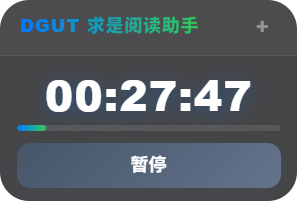
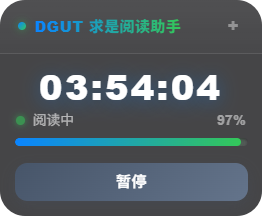
v3.3.0 UI 重设计、CSS 重写、日志彩色分类、iframe 握手协议
- 版本号 3.2.1 → 3.3.0，命名空间改为 GitHub 仓库地址
- 面板 UI 重设计：新增品牌圆点、meter-row 合并状态点与百分比到一行、
  苹果风格视觉语言、大圆角渐变底色
- 注入样式处加注释说明 !important 用途（抵御宿主 CSS reset）
- 日志系统升级：彩色分类（ok/nav/warn）伪元素圆点，
  结构改为独立时间+消息标签、去掉方括号
- 实现 iframe 握手：READY_MSG 心跳 ping（最长 20 秒）、宿主回复定向同步、
  origin+scope 消息过滤、超时降级
- 更新 README.md 和面板截图

diff --git a/DGUT求是读书-自动阅读助手.js b/DGUT求是读书-自动阅读助手.js
@@ -1,7 +1,7 @@
 // ==UserScript==
-// @name         DGUT求是读书-全自动阅读助手
-// @namespace    http://tampermonkey.net/
-// @version      3.2.1
+// @name         DGUT求是读书-自动阅读助手
+// @namespace    https://github.com/vanilla1108/DGUT-Reading-Helper
+// @version      3.3.0
 // @license MIT
 // @description  DGUT莞工求是读书计划自动阅读助手 — 获取优学院真实阅读时长、自动翻页/章节
 // @author       vanilla、DeepSeek
@@ -20,9 +20,12 @@
     const PAGE_WIN = typeof unsafeWindow !== 'undefined' ? unsafeWindow : window;
 
     const HOST_RE = /^https:\/\/ua\.dgut\.edu\.cn\/learnCourse\/learnCourse\.html\?.*/i;
+    const HOST_ORIGIN = 'https://ua.dgut.edu.cn';
     const KEY = 'dgut_single_file_helper_config';
     const RECORDS_KEY = 'dgut_reading_records';
     const MSG = 'DGUT_SINGLE_FILE_READER_SYNC';
+    const READY_MSG = 'DGUT_SINGLE_FILE_READER_READY';
+    const READER_SCOPE = 'DGUT_LEARNCOURSE_READER';
     const SAVE_INTERVAL = 30;
     const D = { posX:20, posY:120, readerSec:30, readerAutoStart:true };
     const MIN_BOOK_SEC = 4 * 3600 + 10;
@@ -215,7 +218,9 @@
         }
 
         document.head.appendChild(Object.assign(document.createElement('style'), {
-            textContent: '#dgut-single-helper-panel{background:rgba(28,28,30,.82);backdrop-filter:blur(28px);-webkit-backdrop-filter:blur(28px);color:#e5e5e7;padding:0;border-radius:16px;position:fixed;z-index:100000;font-family:-apple-system,BlinkMacSystemFont,"SF Pro Text","Helvetica Neue",Arial,sans-serif;min-width:230px;box-shadow:0 12px 40px rgba(0,0,0,.5),0 0 0 1px rgba(255,255,255,.08);user-select:none;overflow:hidden}#dgut-drag-handle{cursor:move;padding:9px 14px;background:rgba(255,255,255,.04);border-bottom:1px solid rgba(255,255,255,.07);display:flex;align-items:center;justify-content:space-between;gap:8px}#dgut-drag-handle h4{margin:0;background:linear-gradient(90deg,#007aff,#34c759);-webkit-background-clip:text;-webkit-text-fill-color:transparent;font-size:12px;font-weight:800;letter-spacing:.5px;text-transform:uppercase}#dgut-collapse-btn{cursor:pointer;font-size:14px;font-weight:700;color:rgba(255,255,255,.4);width:20px;height:20px;display:flex;align-items:center;justify-content:center;border-radius:5px;transition:background .15s,color .15s}#dgut-collapse-btn:hover{background:rgba(255,255,255,.1);color:#fff}#dgut-single-helper-panel.collapsed{min-width:200px}#dgut-single-helper-panel.collapsed .dgut-panel-body>:not(#timer-display):not(#progress-bar-wrap):not(#btn-pause-wrap){display:none}#dgut-single-helper-panel.collapsed .dgut-panel-body{padding:12px}#dgut-single-helper-panel.collapsed #timer-display{font-size:28px;margin:0 0 6px}#dgut-single-helper-panel.collapsed #btn-pause-wrap{margin-bottom:0;margin-top:8px}#dgut-single-helper-panel.collapsed .dgut-btn-primary{height:30px;font-size:12px}.dgut-panel-body{padding:14px}#timer-display{font-weight:800;color:#fff;font-size:34px;font-variant-numeric:tabular-nums;letter-spacing:1px;line-height:1;text-align:center;margin:2px 0 8px;text-shadow:0 2px 12px rgba(0,122,255,.3)}#progress-bar-wrap{height:4px;background:rgba(255,255,255,.1);border-radius:2px;margin:6px 0;overflow:hidden}#progress-bar-fill{height:100%;background:linear-gradient(90deg,#007aff,#34c759);border-radius:2px;transition:width .6s cubic-bezier(.34,1.56,.64,1);box-shadow:0 0 8px rgba(0,122,255,.3)}#progress-text{font-size:10px;font-weight:600;color:rgba(255,255,255,.4);text-align:center;margin-bottom:8px}#book-name-display{font-size:11px;color:rgba(255,255,255,.55);text-align:center;white-space:nowrap;overflow:hidden;text-overflow:ellipsis;max-width:100%;margin-bottom:10px;padding:3px 8px;background:rgba(255,255,255,.03);border-radius:6px}#btn-pause-wrap{margin-bottom:12px}.dgut-btn{border:none;border-radius:9px;cursor:pointer;font-size:13px;font-weight:600;transition:all .15s cubic-bezier(.4,0,.2,1);display:flex;align-items:center;justify-content:center;outline:0}.dgut-btn:hover{filter:brightness(1.08)}.dgut-btn:active{transform:scale(.97)}.dgut-btn-primary{color:#fff;width:100%;height:36px;background:linear-gradient(135deg,#43e97b,#38f9d7);box-shadow:0 4px 12px rgba(67,233,123,.25)}.dgut-btn-ghost{color:rgba(255,255,255,.85);background:rgba(255,255,255,.07);border:1px solid rgba(255,255,255,.12);height:24px;padding:0 10px;font-size:11px;font-weight:500}.dgut-btn-ghost:hover{background:rgba(255,255,255,.13);border-color:rgba(255,255,255,.2)}#auto-row,#server-row{display:flex;align-items:center;gap:8px;margin-bottom:8px;font-size:11px;color:rgba(255,255,255,.5)}#server-row #server-time-display{flex:1;min-width:0}#auto-row .row-label{color:rgba(255,255,255,.4);font-size:11px;flex-shrink:0}#auto-row .row-unit{font-size:11px;color:rgba(255,255,255,.4);margin-right:auto}#reader-sec{width:42px;background:rgba(0,0,0,.25);border:1px solid rgba(255,255,255,.1);border-radius:5px;color:#fff;text-align:center;padding:3px;font-size:12px;outline:0;transition:border-color .15s}#reader-sec:focus{border-color:#007aff}#reader-status{display:flex;align-items:center;gap:6px;font-size:10px;color:rgba(255,255,255,.4);margin-bottom:10px}#status-dot{width:7px;height:7px;border-radius:50%;flex-shrink:0;background:#ffcc80}#status-dot.active{background:#34c759;box-shadow:0 0 6px #34c759;animation:dgut-pulse 2s infinite}@keyframes dgut-pulse{0%,100%{opacity:1}50%{opacity:.5}}#dgut-log-header{display:flex;align-items:center;justify-content:space-between;cursor:pointer;margin-bottom:6px;padding-top:8px;border-top:1px solid rgba(255,255,255,.06)}#dgut-log-title{font-size:10px;color:rgba(255,255,255,.35);text-transform:uppercase;letter-spacing:.5px;font-weight:700}#dgut-log-toggle{font-size:10px;color:rgba(255,255,255,.25)}#dgut-log-container{height:90px;overflow-y:auto;background:rgba(0,0,0,.22);border-radius:7px;padding:6px 8px;font-size:10px;font-family:Consolas,monospace;line-height:1.5;scrollbar-width:thin;transition:all .25s ease}#dgut-log-container.collapsed{height:0;padding:0;opacity:0;overflow:hidden}#dgut-log-container::-webkit-scrollbar{width:4px}#dgut-log-container::-webkit-scrollbar-thumb{background:rgba(255,255,255,.1);border-radius:2px}.dgut-log-line{padding:1px 0;color:rgba(255,255,255,.55)}.dgut-log-time{color:rgba(255,255,255,.18);margin-right:6px}'
+            /* !important 在 #dgut-log-container / .dgut-log-line 的 padding 上，
+               用于抵御宿主页面 CSS reset 导致日志圆点压时间戳的 bug — 勿删勿改。 */
+            textContent: '#dgut-single-helper-panel{box-sizing:border-box;background:rgba(28,28,30,.82);backdrop-filter:blur(28px);-webkit-backdrop-filter:blur(28px);color:#e5e5e7;padding:0;border-radius:16px;position:fixed;z-index:100000;font-family:-apple-system,BlinkMacSystemFont,"SF Pro Text","Helvetica Neue",Arial,sans-serif;width:300px;max-width:calc(100vw - 32px);box-shadow:0 12px 40px rgba(0,0,0,.5),0 0 0 1px rgba(255,255,255,.08);user-select:none;overflow:hidden}#dgut-single-helper-panel *{box-sizing:border-box}#dgut-drag-handle{cursor:move;padding:11px 14px;background:linear-gradient(180deg,rgba(255,255,255,.06),rgba(255,255,255,.02));border-bottom:1px solid rgba(255,255,255,.07);display:flex;align-items:center;justify-content:space-between;gap:8px}#dgut-title-wrap{display:flex;align-items:center;gap:7px;min-width:0}#dgut-brand-dot{width:7px;height:7px;border-radius:50%;background:linear-gradient(135deg,#0a84ff,#34c759);box-shadow:0 0 7px rgba(52,199,89,.6);flex-shrink:0}#dgut-drag-handle h4{margin:0;background:linear-gradient(90deg,#0a84ff,#34c759);-webkit-background-clip:text;-webkit-text-fill-color:transparent;font-size:12px;font-weight:800;letter-spacing:.3px;white-space:nowrap}#dgut-collapse-btn{cursor:pointer;font-size:14px;font-weight:700;color:rgba(255,255,255,.4);width:20px;height:20px;display:flex;align-items:center;justify-content:center;border-radius:6px;transition:background .15s,color .15s}#dgut-collapse-btn:hover{background:rgba(255,255,255,.1);color:#fff}#dgut-single-helper-panel.collapsed{width:210px}#dgut-single-helper-panel.collapsed .dgut-panel-body>:not(#timer-display):not(#progress-bar-wrap):not(#btn-pause-wrap):not(#meter-row){display:none}#dgut-single-helper-panel.collapsed .dgut-panel-body{padding:12px}#dgut-single-helper-panel.collapsed #timer-display{font-size:28px;margin:0 0 6px}#dgut-single-helper-panel.collapsed #meter-row{margin-bottom:6px}#dgut-single-helper-panel.collapsed #btn-pause-wrap{margin-bottom:0;margin-top:8px}#dgut-single-helper-panel.collapsed .dgut-btn-primary{height:30px;font-size:12px}.dgut-panel-body{padding:16px}#timer-display{font-weight:800;color:#fff;font-size:36px;font-variant-numeric:tabular-nums;letter-spacing:2px;line-height:1;text-align:center;margin:4px 0 9px;text-shadow:0 2px 16px rgba(10,132,255,.35)}#meter-row{display:flex;align-items:center;justify-content:space-between;gap:8px;margin:0 0 7px;padding:0 1px}#reader-status{display:flex;align-items:center;gap:6px;font-size:11px;color:rgba(255,255,255,.6);min-width:0}#status-text{white-space:nowrap;overflow:hidden;text-overflow:ellipsis}#status-dot{width:7px;height:7px;border-radius:50%;flex-shrink:0;background:#ffcc80;box-shadow:0 0 6px rgba(255,204,128,.5)}#status-dot.active{background:#34c759;box-shadow:0 0 6px #34c759;animation:dgut-pulse 2s infinite}@keyframes dgut-pulse{0%,100%{opacity:1}50%{opacity:.5}}#progress-text{font-size:11px;font-weight:700;color:rgba(255,255,255,.5);letter-spacing:.3px;flex-shrink:0;font-variant-numeric:tabular-nums}#progress-bar-wrap{position:relative;height:6px;background:rgba(255,255,255,.08);border-radius:99px;margin:0 0 14px;overflow:hidden;box-shadow:inset 0 1px 2px rgba(0,0,0,.35)}#progress-bar-fill{height:100%;background:linear-gradient(90deg,#0a84ff,#34c759);border-radius:99px;transition:width .6s cubic-bezier(.34,1.56,.64,1);box-shadow:0 0 10px rgba(52,199,89,.45)}#book-name-display{font-size:11px;color:rgba(255,255,255,.62);text-align:center;white-space:nowrap;overflow:hidden;text-overflow:ellipsis;max-width:100%;margin-bottom:14px;padding:6px 10px;background:rgba(255,255,255,.04);border:1px solid rgba(255,255,255,.06);border-radius:8px}#btn-pause-wrap{margin-bottom:14px}.dgut-btn{border:none;border-radius:10px;cursor:pointer;font-size:13px;font-weight:600;transition:all .15s cubic-bezier(.4,0,.2,1);display:flex;align-items:center;justify-content:center;outline:0}.dgut-btn:hover{filter:brightness(1.08)}.dgut-btn:active{transform:scale(.97)}.dgut-btn-primary{color:#fff;width:100%;height:38px;font-size:14px;font-weight:700;letter-spacing:.5px;background:linear-gradient(135deg,#0a84ff,#34c759);box-shadow:0 6px 16px rgba(10,132,255,.3)}.dgut-btn-ghost{color:rgba(255,255,255,.85);background:rgba(255,255,255,.07);border:1px solid rgba(255,255,255,.12);border-radius:8px;height:28px;padding:0 14px;font-size:11px;font-weight:500}.dgut-btn-ghost:hover{background:rgba(255,255,255,.13);border-color:rgba(255,255,255,.2)}#auto-row,#server-row{display:flex;align-items:center;gap:8px;font-size:11px;color:rgba(255,255,255,.5)}#auto-row{margin-bottom:10px}#server-row{margin-bottom:12px}#server-row #server-time-display{flex:1;min-width:0}#auto-row .row-label{color:rgba(255,255,255,.45);font-size:11px;flex-shrink:0}#auto-row .row-unit{font-size:11px;color:rgba(255,255,255,.4);margin-right:auto}#reader-sec{width:46px;height:28px;background:rgba(0,0,0,.25);border:1px solid rgba(255,255,255,.1);border-radius:8px;color:#fff;text-align:center;padding:3px;font-size:12px;font-variant-numeric:tabular-nums;outline:0;transition:border-color .15s}#reader-sec:focus{border-color:#007aff}#dgut-log-header{display:flex;align-items:center;justify-content:space-between;cursor:pointer;margin-bottom:8px;padding-top:12px;border-top:1px solid rgba(255,255,255,.07)}#dgut-log-title{font-size:10px;color:rgba(255,255,255,.42);text-transform:uppercase;letter-spacing:.8px;font-weight:700}#dgut-log-toggle{font-size:9px;color:rgba(255,255,255,.3)}#dgut-log-container{height:96px;overflow-y:auto;overflow-x:hidden;background:rgba(0,0,0,.28);border-radius:8px;padding:6px!important;font-size:10px;line-height:1.5;scrollbar-width:thin;scrollbar-color:rgba(255,255,255,.15) transparent;transition:height .25s ease,opacity .25s ease,padding .25s ease}#dgut-log-container.collapsed{height:0;padding:0;opacity:0;overflow:hidden}#dgut-log-container::-webkit-scrollbar{width:5px}#dgut-log-container::-webkit-scrollbar-thumb{background:rgba(255,255,255,.12);border-radius:3px}#dgut-log-container::-webkit-scrollbar-thumb:hover{background:rgba(255,255,255,.22)}.dgut-log-line{position:relative;display:flex;gap:7px;align-items:flex-start;padding:2px 6px 2px 16px!important;border-radius:5px;line-height:1.5;color:rgba(255,255,255,.62);transition:background .12s}.dgut-log-line+.dgut-log-line{margin-top:1px}.dgut-log-line:hover{background:rgba(255,255,255,.05)}.dgut-log-line::before{content:"";position:absolute;left:6px;top:7px;width:5px;height:5px;border-radius:50%;background:rgba(255,255,255,.22)}.dgut-log-line.ok::before{background:#34c759;box-shadow:0 0 4px rgba(52,199,89,.5)}.dgut-log-line.ok .dgut-log-msg{color:#7ee2a0}.dgut-log-line.nav::before{background:#0a84ff;box-shadow:0 0 4px rgba(10,132,255,.5)}.dgut-log-line.nav .dgut-log-msg{color:#74bbff}.dgut-log-line.warn::before{background:#ff9f0a;box-shadow:0 0 4px rgba(255,159,10,.5)}.dgut-log-line.warn .dgut-log-msg{color:#ffc673}.dgut-log-time{flex-shrink:0;color:rgba(255,255,255,.3);font-family:Consolas,"SF Mono",monospace;font-variant-numeric:tabular-nums;letter-spacing:-.2px}.dgut-log-msg{flex:1;min-width:0;word-break:break-word;overflow-wrap:anywhere}'
         }));
 
         const p = Object.assign(document.createElement('div'), {
@@ -223,13 +228,16 @@
             style: `top:${cfg.posY}px;right:${cfg.posX}px`
         });
         p.innerHTML = `<div id="dgut-drag-handle">
-  <h4>DGUT 求是阅读助手</h4>
+  <div id="dgut-title-wrap"><span id="dgut-brand-dot"></span><h4>DGUT 求是阅读助手</h4></div>
   <span id="dgut-collapse-btn" title="折叠/展开">−</span>
 </div>
 <div class="dgut-panel-body">
   <div id="timer-display">${fmt(accumulated)}</div>
+  <div id="meter-row">
+    <span id="reader-status"><span id="status-dot"></span><span id="status-text">就绪</span></span>
+    <span id="progress-text">0%</span>
+  </div>
   <div id="progress-bar-wrap"><div id="progress-bar-fill" style="width:0%"></div></div>
-  <div id="progress-text">0%</div>
   <div id="book-name-display" title="${bookKey}">${getBookDisplayName()}</div>
   <div id="btn-pause-wrap">
     <button id="btn-pause" class="dgut-btn dgut-btn-primary">开始</button>
@@ -240,7 +248,6 @@
     <span class="row-unit">秒/页</span>
     <button id="btn-apply-reader" class="dgut-btn dgut-btn-ghost">保存</button>
   </div>
-  <div id="reader-status"><span id="status-dot"></span><span id="status-text">就绪</span></div>
   <div id="server-row">
     <span id="server-time-display">服务端: --</span>
     <button id="btn-sync-server" class="dgut-btn dgut-btn-ghost">同步</button>
@@ -267,14 +274,21 @@
             if (st) st.textContent = t;
             if (dot) { dot.style.background = c || '#ffcc80'; dot.className = c === '#34c759' ? 'active' : ''; }
         }
+        function logType(msg) {
+            if (/失败|错误|出错|未收到|无法|异常|未满/.test(msg)) return 'warn';
+            if (/已满4h|同步|存档|读完|启动|握手|连接|最新|已设为/.test(msg)) return 'ok';
+            if (/翻页|切换|下一页|下一节|下一章|下一本|回到第一页|停留|留在/.test(msg)) return 'nav';
+            return '';
+        }
         function log(msg) {
             const c = document.getElementById('dgut-log-container');
             if(!c) return;
             const n = new Date();
             const t = `${String(n.getHours()).padStart(2,'0')}:${String(n.getMinutes()).padStart(2,'0')}:${String(n.getSeconds()).padStart(2,'0')}`;
+            const cls = logType(msg);
             const l = document.createElement('div');
-            l.className = 'dgut-log-line';
-            l.innerHTML = `<span class="dgut-log-time">[${t}]</span>${msg}`;
+            l.className = 'dgut-log-line' + (cls ? ' ' + cls : '');
+            l.innerHTML = `<span class="dgut-log-time">${t}</span><span class="dgut-log-msg">${msg}</span>`;
             c.appendChild(l);
             c.scrollTop = c.scrollHeight;
             while(c.children.length > 100) c.removeChild(c.firstChild);
@@ -291,16 +305,33 @@
         function getTotal() { return accumulated + Math.floor((Date.now() - sessionStart) / 1000); }
         function persist() { const t = getTotal(); setBookTime(bookKey, t); lastSave = t; log('存档：' + fmt(t)); }
 
-        function syncReader() {
+        function syncReader(targetWin) {
             saveCfg();
-            const payload = { type: MSG, intervalSec: cfg.readerSec, autoStart: cfg.readerAutoStart };
+            const payload = {
+                type: MSG,
+                scope: READER_SCOPE,
+                intervalSec: cfg.readerSec,
+                autoStart: cfg.readerAutoStart
+            };
             let n = 0;
-            Array.from(document.querySelectorAll('iframe')).forEach(f => {
-                try { if(f.contentWindow){ f.contentWindow.postMessage(payload, '*'); n++; } } catch(e) {}
-            });
+            if (targetWin) {
+                try {
+                    targetWin.postMessage(payload, '*');
+                    n = 1;
+                } catch(e) {}
+            } else {
+                Array.from(document.querySelectorAll('iframe')).forEach(f => {
+                    try {
+                        if(f.contentWindow){
+                            f.contentWindow.postMessage(payload, '*');
+                            n++;
+                        }
+                    } catch(e) {}
+                });
+            }
             let txt;
             if (n > 0) {
-                txt = cfg.readerAutoStart ? '阅读中·'+cfg.readerSec+'秒/页' : '已暂停·'+cfg.readerSec+'秒/页';
+                txt = cfg.readerAutoStart ? '阅读中' : '已暂停';
             } else {
                 txt = '等待阅读器连接';
             }
@@ -640,8 +671,14 @@
         }
         syncReader();
         window.addEventListener('message', function(e) {
-            if (e.data && e.data.type === 'DGUT_LOG') {
+            if (!e.data) return;
+            if (e.data.type === 'DGUT_LOG') {
                 log('[iframe] ' + e.data.text);
+                return;
+            }
+            if (e.data.type === READY_MSG) {
+                syncReader(e.source);
+                log('[iframe] 阅读器已握手');
             }
         });
         setupAntiDetect();
@@ -671,7 +708,7 @@
     function initReader() {
         if(window.__DGUT_SINGLE_FILE_READER_INITED__) return;
         window.__DGUT_SINGLE_FILE_READER_INITED__ = true;
-        let timer = null, state, lastFlipLogAt = 0, lastLoopBack = 0;
+        let timer = null, state, lastFlipLogAt = 0, lastLoopBack = 0, synced = false, readyTimer = null;
         const LOG = 'DGUT_LOG';
 
         function rlog(msg) {
@@ -717,10 +754,23 @@
         function stop() { if(!timer) return; clearInterval(timer); timer = null; rlog('翻页定时器已停止'); }
         function start(s) { if(timer) return; timer = setInterval(clickNext, s*1000); rlog('翻页定时器已启动：' + s + '秒/页'); }
         function apply(s, auto) { stop(); if(auto!==false) start(s); }
+        function stopReadyPing() {
+            if (!readyTimer) return;
+            clearInterval(readyTimer);
+            readyTimer = null;
+        }
+        function notifyReady() {
+            if (window.parent === window) return;
+            try {
+                window.parent.postMessage({ type: READY_MSG, scope: READER_SCOPE }, '*');
+            } catch(e) {}
+        }
 
         window.addEventListener('message', e => {
             const d = e.data;
-            if(!d||d.type!==MSG) return;
+            if(!d || d.type !== MSG || d.scope !== READER_SCOPE || e.origin !== HOST_ORIGIN) return;
+            synced = true;
+            stopReadyPing();
             state = readCfg();
             const sec = parseInt(d.intervalSec, 10);
             state.readerSec = sec > 0 ? sec : D.readerSec;
@@ -730,18 +780,33 @@
             apply(state.readerSec, state.readerAutoStart);
         });
 
-        function tryStart() {
-            state = readCfg();
-            apply(state.readerSec, state.readerAutoStart);
+        function tryHandshake() {
+            if (window.parent === window || synced) return;
+            notifyReady();
+            if (readyTimer) return;
+            let tries = 0;
+            readyTimer = setInterval(function() {
+                if (synced || window.parent === window) {
+                    stopReadyPing();
+                    return;
+                }
+                tries++;
+                notifyReady();
+                if (tries >= 20) {
+                    stopReadyPing();
+                    rlog('未收到宿主同步，当前阅读器不启用自动翻页');
+                }
+            }, 1000);
         }
         if (document.readyState === 'complete') {
-            setTimeout(tryStart, 500);
+            setTimeout(tryHandshake, 500);
         } else {
-            window.addEventListener('load', () => setTimeout(tryStart, 1200), { once: true });
+            window.addEventListener('load', () => setTimeout(tryHandshake, 1200), { once: true });
         }
     }
 
     function bootstrapReader() {
+        if (window.top === window.self) return;
         const init = () => document.querySelector('#nextBtn') ? (initReader(), true) : false;
         if(init()) { console.log('[DGUT Reader] 阅读器已连接'); return; }
         let n = 0, t = setInterval(() => { n++; if(init()||n>=20) clearInterval(t); }, 500);

diff --git a/README.md b/README.md
@@ -1,6 +1,6 @@
 # DGUT 求是读书计划-全自动阅读助手
 
-> 当前版本：**3.2.1** · 适用平台：东莞理工学院优学院【求是读书计划】课件书籍（ua.dgut.edu.cn）
+> 当前版本：**3.3.0** · 适用平台：东莞理工学院优学院【求是读书计划】课件书籍（ua.dgut.edu.cn）
 
 一个浏览器脚本，帮你在DGUT莞工【求是读书计划】里**自动计时 + 自动翻页**，无需手动盯着屏幕翻书，就能完成每本书 4 小时的学分要求。
 
